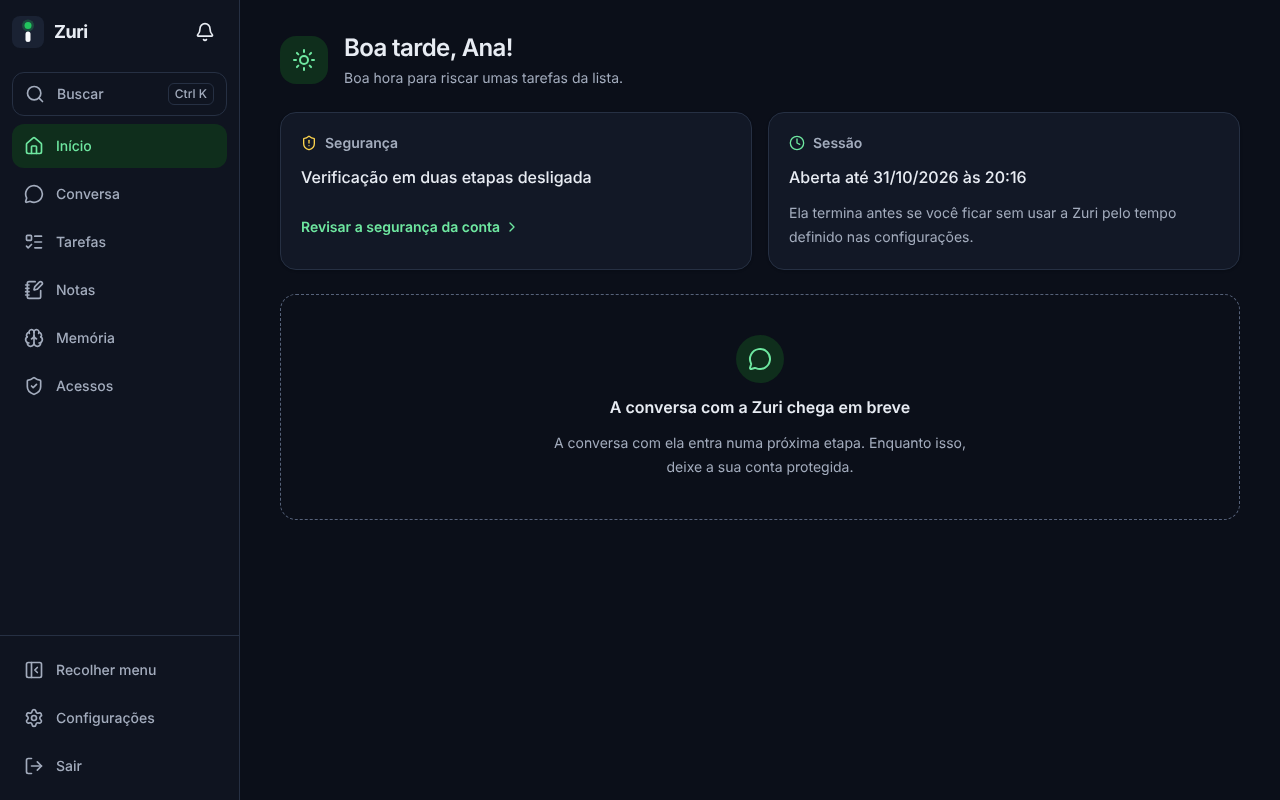
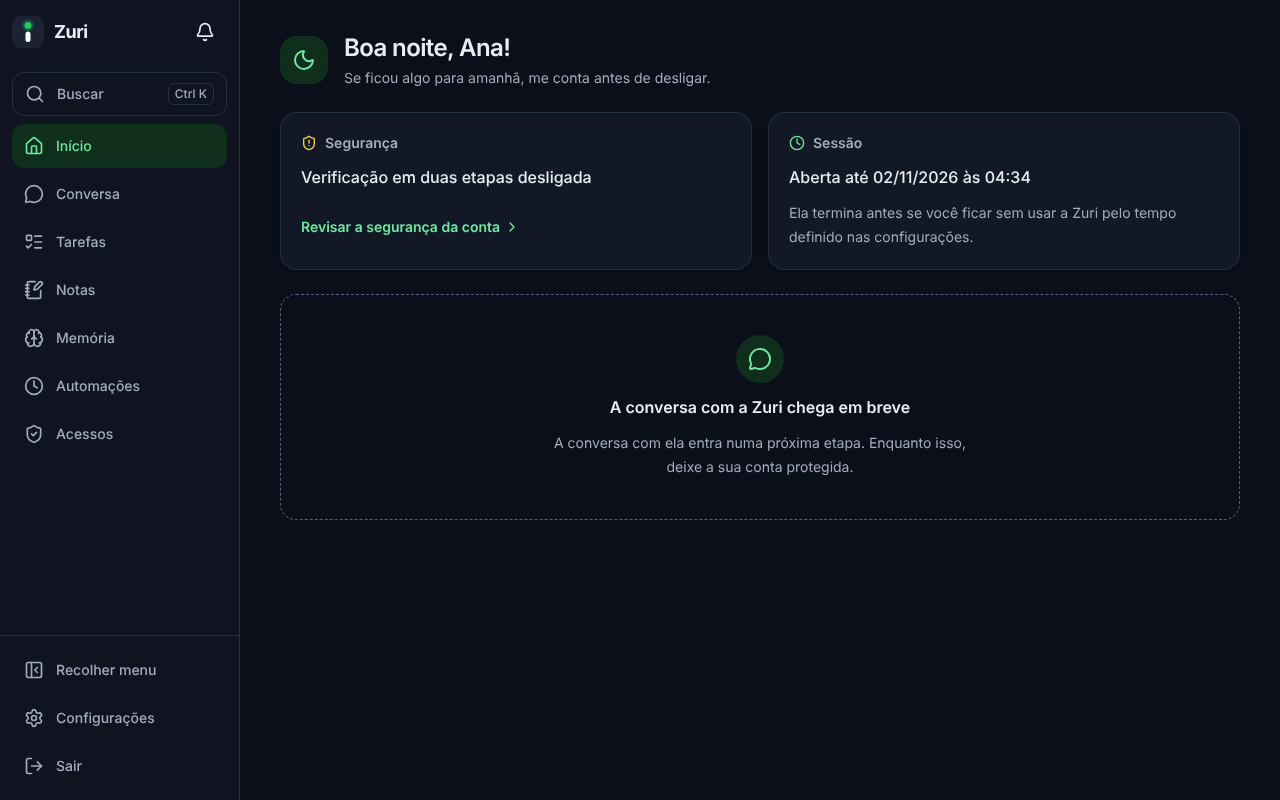
docs: documenta as automações e atualiza README, CHANGELOG, progresso e capturas
Claude-Session: https://claude.ai/code/session_012XDDEgQ74xTHx95kxbkmWr

diff --git a/scripts/dados-de-exemplo.ts b/scripts/dados-de-exemplo.ts
@@ -5,9 +5,10 @@
 import type { Page } from "@playwright/test";
 import { CSRF } from "../tests/e2e/ui-helpers.ts";
 
-/** A deadline `days` from today, at 18:00 in São Paulo. */
-const dueIn = (days: number) => `${new Date(Date.now() + days * 86_400_000).toISOString().slice(0, 10)}T21:00:00.000Z`;
-const dayIn = (days: number) => new Date(Date.now() + days * 86_400_000).toISOString().slice(0, 10);
+/** The day `days` from today in São Paulo (not UTC's day: late in the evening they differ). */
+const dayIn = (days: number) => new Date(Date.now() + days * 86_400_000).toLocaleDateString("en-CA", { timeZone: "America/Sao_Paulo" });
+/** A deadline `days` from today, at 18:00 in São Paulo (UTC-3, no summer time since 2019). */
+const dueIn = (days: number) => `${dayIn(days)}T21:00:00.000Z`;
 
 /**
  * Creates the sample projects, tasks, notes, memories and a conversation with a

diff --git a/.claude/memoria/progresso.md b/.claude/memoria/progresso.md
@@ -24,15 +24,24 @@ etapas ficam detalhadas; as mais antigas viram uma linha na tabela.
 | 6 | mesclada (31/10/2026) | #12 | Tarefas, notas (Markdown, FTS5), projetos, lixeira de 30 dias, limites por tipo |
 | 7 | mesclada (31/10/2026) | #21 | Memória com estados atual/incerta/passada, substituição sem ciclos, fila de revisão, recordação em `<data>` |
 | 8 | mesclada (31/10/2026) | #25 | Provedor Workers AI e IA simulada, medição por passo, teto de 9.000 Neurons/dia, aba IA |
-| 9 | em revisão (31/10/2026) | PR #28 | Conversa em SSE, 20 ferramentas com permissão e limite, aprovações e planos, voz, injeção de prompt testada |
+| 9 | mesclada (31/10/2026) | #28 | Conversa em SSE, 20 ferramentas com permissão e limite, aprovações e planos, voz, injeção de prompt testada |
+| 10 | em revisão (02/11/2026) | PR #PRNUM | Automações: lembretes, resumo das tarefas e rotinas com IA, alarme único, recuperação após reinício, aprovação das rotinas do chat |
 
 ## Últimas etapas (detalhe)
+
+### Etapa 10 · Automações
+- Entregou: `packages/shared/src/{schedule,automations}.ts` (agendas sem Zod para a prévia da tela; schemas e limites), `apps/agent/src/automations/{service,executor}.ts`, `scheduled()` no runner, ferramentas `create_reminder`, `create_automation`, `list_automations`, `propose_ai_routine`, `cancel_automation` (destrutiva) e `notify_owner` (só em rotina), rotas `/api/automations*`, tela `/automacoes` (`pages/automations/`, `lib/automations.ts`), configuração `aiScheduledRunsPerDay` (padrão 6, até 48). Doc: `docs/automacoes.md`.
+- Migrations: versão 9 (`zur_automations`, `zur_automation_runs` com índice único em `(automation_id, slot)`, contadores `automations` e `automation_runs`).
+- Decisões técnicas: um alarme só do SDK para todas (P8), guardado em `automation_alarm`; cada horário é reivindicado numa transação antes de rodar, então nunca roda duas vezes; atraso < 24 h roda uma vez como "Recuperada", ≥ 24 h vira "Pulada"; reinício marca execuções presas como interrompidas (sem repetir) e rearma; horário que não existe no fuso anda para frente, horário repetido usa a primeira passagem; dia 29–31 cai no último dia do mês; rotina do chat nasce pendente e só o dono aprova; limites 50 ativas, 10 pendentes, 1 hora mínima, histórico de 2.000.
+- Ficou para depois: o resultado vai só para o histórico da tela; aviso no sino, push e Telegram chegam na etapa 11 (que também cria a aba Diagnóstico com as falhas `automation_failed` do log).
+- Riscos ou dívidas: o JS inicial ficou em 138,9 kB com teto de 139; textos de telas sob demanda saíram do catálogo inicial (`pt-BR-markdown.ts`, chaves de Configurações). No celular, Automações fica na lista de Configurações e na busca (a barra tem 5 lugares).
+- Atenção para a próxima: a etapa 11 entrega o resultado de cada execução (`zur_automation_runs.result`, `notify_owner` em `notices`) na central de avisos; não crie outro alarme, use o de `AutomationService.rearm()`.
 
 ### Etapa 9 · Chat com ferramentas
 - Entregou: `packages/shared/src/chat.ts` (schemas, limites, eventos do SSE), `apps/agent/src/agent/{prompt,context,runner}.ts`, `apps/agent/src/tools/` (registro, executor, 20 ferramentas), `apps/agent/src/chat/` (`conversations`, `actions`, `plans`, `local-due`), `apps/agent/src/ai/transcription.ts`, rotas em `api/chat.ts`, tela `/conversa` (`apps/web/src/pages/chat/`). Doc: `docs/chat.md`; segurança em `docs/seguranca.md` ("Ferramentas do agente e injeção de prompt").
 - Migrations: versão 8 (`zur_conversations`, `zur_messages`, `zur_pending_actions`, `zur_task_plan_drafts`, contadores `conversations` e `messages`, coluna `author` em `zur_memories`).
 - Decisões técnicas: proposta destrutiva com hash SHA-256 do alvo, reivindicada por `UPDATE … RETURNING` e conferida de novo na transação; plano é rascunho e a confirmação recusa tarefa nova; chamada que chega à ferramenta conta no turno mesmo se falhar, mas devolve a vaga do limite por ferramenta; repetição exata recusada; resultado de ferramenta em `<data source="tool">` cortado em 8.000 caracteres; orçamento de contexto = menor entre o do dono e a janela do modelo; resumo quando 8+ mensagens não cabem; textos pt-BR das Configurações viraram `pt-BR-settings.ts` sob demanda (JS inicial 139,0 kB).
-- Ficou para depois: execução agendada usa só ferramentas `read` (`context: "scheduled"`, etapa 10); origem `telegram` das mensagens (etapa 14); sem atualização ao vivo entre duas abas abertas na mesma conversa.
+- Ficou para depois: origem `telegram` das mensagens (etapa 14); sem atualização ao vivo entre duas abas abertas na mesma conversa.
 - SEC-09-07 (pedido do Pablo): memória que a assistente guarda tem `author = 'agent'`, marca "Anotada pela assistente" e `saved_by="assistant"` no prompt; vira do dono quando ele edita ou repete. O Telegram (etapa 14) passa `origin: telegram` e `author: agent` em `remember`.
 - Atenção para a próxima: a etapa 10 chama o runner com `context: "scheduled"` e sem dono presente (nada destrutivo, nenhum plano); toda IA continua por `agent.ai()`. O mock entende `call <ferramenta> {json}`.
 
@@ -42,13 +51,6 @@ etapas ficam detalhadas; as mais antigas viram uma linha na tabela.
 - Decisões técnicas: todo uso de IA passa por `MeteredAI` (reserva o máximo antes, acerta por passo com os tokens da Cloudflare, devolve o que não começou); dias UTC; `maxRetries: 0`; prazo de 120 s por vez; ao fim da vez o medidor fecha e nenhuma chamada nova começa; `enable_thinking: false` só em GLM e Qwen3; IA simulada quando `PUBLIC_URL` é loopback, e `wrangler dev --local` em dev e e2e.
 - Ficou para depois: janela de contexto por modelo (Llama 3.3 70B tem 24 mil tokens); limitar o tamanho do resultado de ferramenta; transcrição e embeddings usam `reserveAudio`/`stepNeurons` quando chegarem (etapas da voz e da busca).
 - Atenção para a próxima: a etapa 9 chama `agent.ai()` (sempre `MeteredAI`, nunca o provedor cru), passa `signal` do botão Parar e trata `AI_LIMIT_REACHED` e `SERVICE_UNAVAILABLE` (`error.ai*`) no SSE. Senha recente para trocar modelo só na etapa 21 (`aiModel` em `SESSION_FIELDS`).
-
-### Etapa 7 · Memória e histórico
-- Entregou: `packages/shared/src/memory.ts` (schemas e limites), `apps/agent/src/memory/` (`text`, `conflict`, `intent`, `dates`, `repository`, `lifecycle`, `service`, `recall`), `apps/agent/src/agent/data.ts` (`dataLine`, `neutralize`), rotas `/api/memories*`, tela `/memoria` com fila "Para revisar", chave `memoryConflictReview` nas configurações. Doc: `docs/memoria.md`.
-- Migrations: versão 6 (`zur_memories` + FTS5, `zur_memory_reviews`, índices por estado e por estado+categoria, contadores em `zur_counts`).
-- Decisões técnicas: conflito só por regras (sem IA/Clef); regras nunca aposentam memória, só abrem revisão (máx. 500 pendentes); apagar é definitivo (sem lixeira, sem log); fato que vira passado leva as revisões; editar/restaurar para texto de outra atual = 409; busca ranqueia nas 200 ocorrências mais novas (conflito: 50); `fold` só tira acentos latinos.
-- Ficou para depois: verificação de conflito por IA; paginação além de 200 por filtro (o resto aparece na busca); importar backup usa `cleanImportedLinks` e precisa `rebuild` do FTS (etapa 23).
-- Atenção para a próxima: etapa 9 liga `selectRelevantMemories` + `memoryPromptSection` (orçamento `memoryTokenBudget`) ao runner; `remember` → `create`, `update_memory` → `correct`; `update` sem histórico e revisão `replace`/`cancel` só como `destructive` (`.claude/rules/ferramentas.md`). Todo conteúdo guardado no prompt passa por `dataLine`.
 
 <!-- Modelo, até 10 linhas por etapa:
 ### Etapa NN · <nome>

diff --git a/docs/automacoes.md b/docs/automacoes.md
@@ -1,0 +1,60 @@
+# Automações
+
+A etapa 10 trouxe três tipos de automação, todos no fuso do dono (Configurações › Conta):
+
+| Tipo | O que faz | Usa IA? |
+| --- | --- | --- |
+| Lembrete | Entrega o texto que o dono escreveu. | Não |
+| Resumo das tarefas | Lista as tarefas atrasadas e as de hoje, no máximo 10 por grupo. | Não |
+| Rotina da Zuri | A Zuri responde ao pedido usando só ferramentas de leitura (tarefas, notas, memórias) e `notify_owner`. | Sim |
+
+Os horários possíveis são: uma vez, todo dia, dias da semana, um dia do mês e a cada N horas (de 1 a 744).
+
+## Onde fica o código
+
+- `packages/shared/src/schedule.ts`: `nextRun` e `upcomingRuns`, sem Zod, porque a tela usa os dois na prévia.
+- `packages/shared/src/automations.ts`: schemas, limites (`AUTOMATION_LIMITS`), estados e tipos.
+- `apps/agent/src/automations/service.ts`: cria, muda, aprova, apaga, reivindica horários, guarda o alarme e reconcilia depois de um reinício.
+- `apps/agent/src/automations/executor.ts`: roda cada tipo.
+- `apps/agent/src/tools/automations.ts`: as ferramentas do chat.
+- `apps/agent/src/api/automations.ts`: as rotas `/api/automations*`.
+- `apps/web/src/pages/automations/`: a tela `/automacoes`, carregada sob demanda.
+- Migration 9: `zur_automations` e `zur_automation_runs`.
+
+## Como o horário funciona
+
+- **Um alarme só.** O Durable Object guarda um único agendamento do SDK (`runAutomations`), sempre para a próxima automação que vence (regra P8). A chave `automation_alarm` do estado interno guarda `"<UTC>|<id do agendamento>"`. Depois de qualquer mudança, `rearm()` confere esse alarme e o troca se precisar.
+- **Nunca roda duas vezes.** Antes de rodar, uma transação grava a execução com o horário previsto (`slot`) e já avança a próxima. Um índice único em `(automation_id, slot)` impede que outra chamada pegue o mesmo horário.
+- **Atrasos.** Se o objeto acorda até 24 h depois do horário, a automação roda uma vez e o histórico marca "Recuperada". Com 24 h ou mais de atraso, ela não roda e o histórico mostra "Pulada", com o motivo. Vários horários perdidos de uma repetição viram uma execução só.
+- **Reinício.** No `onStart`, execuções que ficaram "rodando" viram "Falhou · interrompida" e não são repetidas, para não avisar duas vezes. Depois disso o alarme é rearmado. Rodar a reconciliação de novo não muda nada.
+- **Horário de verão e meses curtos.** Um horário que não existe no fuso (o relógio pulou) anda para frente o tamanho do pulo. Um horário que se repete usa a primeira passagem. Dia 29, 30 ou 31 cai no último dia dos meses mais curtos.
+- **Troca de fuso.** Quando o dono muda o fuso, cada automação ativa recalcula a próxima execução no relógio de parede do fuso novo.
+
+## Limites
+
+| Limite | Valor |
+| --- | --- |
+| Automações no total | 500 |
+| Ativas ao mesmo tempo | 50 |
+| Rotinas esperando aprovação | 10 |
+| Repetição mínima | 1 hora |
+| Execuções no histórico | 2.000 (as mais antigas saem) |
+| Rotinas com IA por dia | 6 por padrão, de 0 a 48 (Configurações › IA), contadas desde 00:00 UTC |
+
+Cada execução com IA passa por `agent.ai()` e conta no teto diário de 9.000 Neurons. Quando o limite de rotinas ou o teto chega, a execução é pulada e o motivo aparece no histórico.
+
+## O chat e as aprovações
+
+- `create_reminder` e `create_automation` criam direto o lembrete e o resumo, que não usam IA.
+- `propose_ai_routine` guarda a rotina com o estado "esperando aprovação". Nada é agendado antes de o dono aprovar na tela, onde ele lê o nome, o pedido exato e o horário. A conversa mostra o link "Revisar em Automações".
+- `cancel_automation` é destrutiva: vira um cartão de aprovação, e o alvo é conferido de novo no momento da aprovação.
+- Numa execução agendada, a Zuri só vê ferramentas de leitura e `notify_owner`. Nome e pedido entram no prompt como dados (`<data>`), nunca como instruções.
+- No modo "Só me avise quando houver algo", a resposta `NADA` vira uma execução "Nada a avisar".
+
+## Logs
+
+Falhas usam o módulo único de log (`apps/agent/src/log.ts`). Os eventos são `automation_failed` (com o tipo e o nome do erro), `automation_interrupted` (com a quantidade) e `automation_reconcile_failed`. Nome, texto e resultado nunca entram no log.
+
+## O que ainda falta
+
+Por enquanto o resultado de cada execução aparece só no histórico da tela. A etapa 11 leva os resultados para a central de avisos, com push e e-mail, e cria a aba Diagnóstico com as falhas.

diff --git a/README.md b/README.md
@@ -70,7 +70,7 @@ As capturas abaixo acompanham o tema do seu GitHub (claro ou escuro) e saem da `
     <td width="50%" valign="top">
       <picture>
         <source media="(prefers-color-scheme: dark)" srcset="docs/capturas/inicio-computador-escuro.png">
-        <img src="docs/capturas/inicio-computador-claro.png" alt="Início da Zuri no computador: cumprimento pelo horário com o nome do dono, barra lateral com Início, Conversa, Tarefas, Notas, Memória e Acessos, e cartões de Segurança e Sessão">
+        <img src="docs/capturas/inicio-computador-claro.png" alt="Início da Zuri no computador: cumprimento pelo horário com o nome do dono, barra lateral com Início, Conversa, Tarefas, Notas, Memória, Automações e Acessos, e cartões de Segurança e Sessão">
       </picture>
       <p align="center"><b>Início</b>: cumprimento pelo horário, segurança da conta e sessão num relance</p>
     </td>
@@ -162,12 +162,13 @@ O que está na `develop` hoje, etapa por etapa. "extra" marca melhorias feitas f
 | 🧠 | **Memória** | Fatos que você guarda, edita e apaga. O que muda vira histórico (atual, incerto ou passado), e conflitos vão para uma fila de revisão. | 7 |
 | 📊 | **IA com medição** | Workers AI com contador por chamada e um teto único de 9.000 Neurons por dia, com aviso claro ao chegar nele. | 8 |
 | 💬 | **Conversa com ferramentas** | Respostas em tempo real. O agente cria e organiza tarefas, notas e memórias; o que apaga ou reescreve vira um cartão para você aprovar, e planos de tarefas só viram tarefas depois da sua confirmação. Também aceita voz. | 9 |
+| ⏰ | **Automações** | Lembretes, o resumo das tarefas e rotinas da Zuri, por dia, semana, mês ou a cada algumas horas, sempre no seu fuso. A rotina que a Zuri sugere na conversa só roda depois que você aprova, e um reinício nunca faz nada rodar duas vezes. | 10 |
 
 ## 🔭 O que vem a seguir
 
 | | Funcionalidade | O que faz | Etapa |
 | :---: | --- | --- | :---: |
-| ⏰ | **Automações e avisos** | Lembretes, resumos e rotinas de IA; central de avisos com push, e-mail e prioridade. | 10–11 |
+| 🔔 | **Central de avisos** | Os resultados das automações e os alertas num só lugar, com push, e-mail e prioridade. | 11 |
 | 🤖 | **Bot do Telegram** | Painel de administração no bolso: consultas sem IA, conversa por texto e voz, aprovações com passkey e modo de bloqueio. | 12–16 |
 | 🔌 | **Integrações** | Busca semântica, servidores MCP, Google Agenda, acesso remoto para o n8n e monitor de sites, todos opcionais. | 17–22 |
 | 💾 | **Backup e instalação** | Backup e importação, guia de instalação só pelo navegador e auditoria final. | 23–25 |
@@ -250,7 +251,7 @@ O orçamento de cada cota está em [docs/arquitetura/orcamento-free-tier.md](doc
 | | 7 | Memória e histórico | ✅ |
 | | 8 | Provedor de IA e medição de uso | ✅ |
 | | 9 | Chat com ferramentas | ✅ |
-| | 10 | Automações | ⬜ |
+| | 10 | Automações | ✅ |
 | | 11 | Central de avisos, push e e-mail | ⬜ |
 | **C · Bot do Telegram** | 12 | Fundação do bot | ⬜ |
 | | 13 | Avisos no Telegram | ⬜ |

diff --git a/.claude/memoria/armadilhas.md b/.claude/memoria/armadilhas.md
@@ -80,6 +80,11 @@ acrescente aqui cada armadilha nova que encontrar (sem dados pessoais).
   recorrência; cubra a virada de dia e o horário de verão histórico.
 - Dependências com versão exata; confira o `package-lock.json` no diff.
 
+- O mundo de teste (`test/chat-world.ts`) precisa passar o mesmo relógio falso
+  a todo serviço que olha a hora (`Productivity`, `AutomationService`...). Na
+  etapa 10, o `Productivity` sem `clock` usava a hora real: o teste do resumo
+  passou num dia e falhou dois dias depois.
+
 ## Agents SDK
 
 - A capability `mcp` do Agents SDK responde ao callback OAuth em
@@ -185,6 +190,17 @@ acrescente aqui cada armadilha nova que encontrar (sem dados pessoais).
   (`hooks-*.js`) e subiu o JS inicial em 1,5 KB. A paleta recebe o `navigate`
   do `AppShell` por propriedade, e a Memória recebe a busca pedida pela paleta
   por `askMemorySearch` em `lib/palette.ts`, sem o roteador.
+- Etapa 10: cada pedaço novo dividido entre telas sob demanda (um ícone usado
+  por duas telas, um módulo `lib/` comum, `dates.ts` da shared) põe o nome do
+  arquivo na lista de pré-carga do pacote inicial: uns 25 bytes a mais cada.
+  Use nas telas novas ícones que só elas usam (ou os que o inicial já tem, como
+  `Clock`), e passe pedidos da paleta a uma tela por endereço (`#...`) ou
+  evento do `window`, sem módulo comum. Textos do `ptBRCore` usados só por
+  telas sob demanda vão para o catálogo da tela (`pt-BR-markdown.ts`,
+  `pt-BR-settings.ts`). No `join` do catálogo, passe cada parte como argumento
+  próprio: `{ ...a, ...b }` dentro da chamada `/* @__PURE__ */` impediu o
+  descarte e levou o catálogo inteiro para o inicial (+11 KB). Meça com 3
+  casas (`toFixed(3)` numa cópia do `check-bundle-size.ts`).
 - O axe rodando no meio da animação de entrada (opacidade baixa) acusa
   contraste falso. `expectAccessible` espera as animações finitas terminarem.
 

diff --git a/CHANGELOG.md b/CHANGELOG.md
@@ -9,6 +9,21 @@ o [SemVer](https://semver.org/lang/pt-BR/). Cada PR escreve a sua entrada em
 
 ### Adicionado
 
+- Automações (etapa 10), em uma tela nova com lembretes, o resumo das tarefas e
+  as rotinas da Zuri. Cada uma pode rodar uma vez, todo dia, em dias da semana,
+  num dia do mês ou a cada algumas horas (no mínimo 1), sempre no seu fuso.
+  Antes de salvar, a tela mostra as próximas três execuções. Dá para executar
+  na hora, pausar, editar e excluir. O histórico guarda o que cada execução
+  entregou. Por enquanto o resultado fica só nessa tela; os avisos chegam na
+  etapa 11.
+- Na conversa, a Zuri cria lembretes e resumos na hora. Rotinas que usam IA
+  ficam esperando a sua aprovação em Automações, e a conversa mostra o link
+  "Revisar em Automações". Para excluir uma automação pelo chat, você aprova
+  um cartão.
+- Limite de rotinas com IA por dia em Configurações › IA: 6 por padrão, até 48.
+- "Nova automação" e "Automações" na paleta (Ctrl/⌘ K). No celular,
+  Automações também aparece na lista de Configurações.
+
 - Cumprimento no Início: bom dia, boa tarde ou boa noite pelo horário do seu
   fuso (o das configurações, não o do aparelho), com o seu nome e uma frase
   curta que muda a cada dia. A frase troca sozinha quando o período vira,

diff --git a/.claude/memoria/glossario.md b/.claude/memoria/glossario.md
@@ -23,3 +23,8 @@
 | Substituição | Vínculo `superseded_by` de uma memória passada para a que tomou o lugar dela. Nunca forma ciclo. |
 | Revisão de memória | Item da fila "Para revisar", aberto quando um fato novo parece mudar ou contradizer um antigo. Só o dono resolve. |
 | Atualizar o fato | Gravar um fato novo que substitui o antigo, que vira passado (rota `correct`). Diferente de editar, que corrige a mesma memória. |
+| Automação | Lembrete, resumo das tarefas ou rotina da Zuri que roda num horário, no fuso do dono (`zur_automations`). Ativa, pausada, esperando aprovação ou concluída. |
+| Rotina da Zuri | Automação do tipo `agent_prompt`: a cada execução a Zuri responde a um pedido com ferramentas de leitura. Quando vem do chat, só roda depois da aprovação do dono. |
+| Horário (`slot`) | O instante previsto de uma execução. Cada horário é reivindicado uma vez só; o índice único `(automation_id, slot)` impede repetição. |
+| Execução recuperada | Execução de um horário perdido há menos de 24 h, rodada quando o objeto acorda (`catch_up`). Com 24 h ou mais, o horário é pulado. |
+| Só me avise quando houver algo | Modo sentinela de uma rotina: a resposta `NADA` vira "Nada a avisar" e não incomoda o dono. |

diff --git a/docs/seguranca.md b/docs/seguranca.md
@@ -433,10 +433,14 @@ propostas chegam ao modelo só em linhas `<data>`. As regras fixas do prompt
 dizem que um dado nunca vale como instrução. Como nenhum modelo garante isso, o
 limite real está no servidor:
 
-- **Sem agência a mais.** As 20 ferramentas só leem e escrevem os dados do
+- **Sem agência a mais.** As 26 ferramentas só leem e escrevem os dados do
   próprio dono. Não há shell, código, HTTP, credenciais, e-mail nem deploy. Um
   teste confere a lista inteira e falha se aparecer uma ferramenta nova sem
   revisão.
+- **Rotina agendada só lê.** Uma rotina da Zuri roda sem o dono por perto, então
+  recebe só as ferramentas de leitura e `notify_owner`. A rotina que o modelo
+  propõe no chat nasce esperando aprovação e não roda até o dono aprovar na
+  tela, depois de ler o pedido exato (`docs/automacoes.md`).
 - **Destruir pede o dono.** Apagar ou reescrever vira proposta. Ela só roda
   quando o dono aprova no cartão, uma vez só, e só se o alvo ainda estiver como
   na proposta (hash do retrato). O modelo não consegue aprovar: as rotas de

diff --git a/docs/chat.md b/docs/chat.md
@@ -73,6 +73,14 @@ desconhecido é recusado), permissão e limite por turno.
 | `forget_memory` | destructive | 3 | Proposta: apaga a memória de vez |
 | `search` | read | 2 | Tarefas, notas, memórias e títulos de conversa de uma vez |
 | `propose_task_plan` | write | 1 | Guarda um rascunho de plano; nada é criado |
+| `create_reminder` | write | 3 | Lembrete de uma vez, num horário local ou daqui a N minutos (etapa 10) |
+| `create_automation` | write | 2 | Lembrete que se repete ou resumo das tarefas, sem IA |
+| `list_automations` | read | 2 | Lista as automações com a próxima execução no horário local |
+| `propose_ai_routine` | write | 1 | Guarda uma rotina com IA esperando a aprovação do dono; nada é agendado |
+| `cancel_automation` | destructive | 3 | Proposta: exclui uma automação |
+| `notify_owner` | write | 1 | Só dentro de uma rotina agendada: aviso com título próprio |
+
+Detalhes das automações em [automacoes.md](automacoes.md).
 
 O executor (`tools/registry.ts`) também:
 
